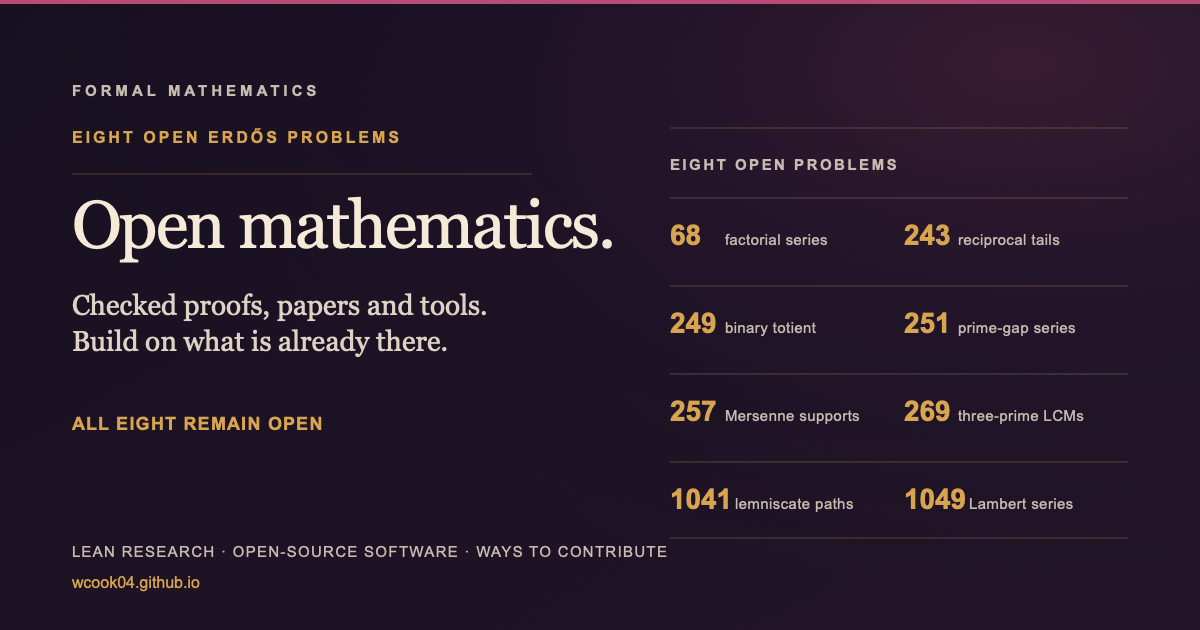
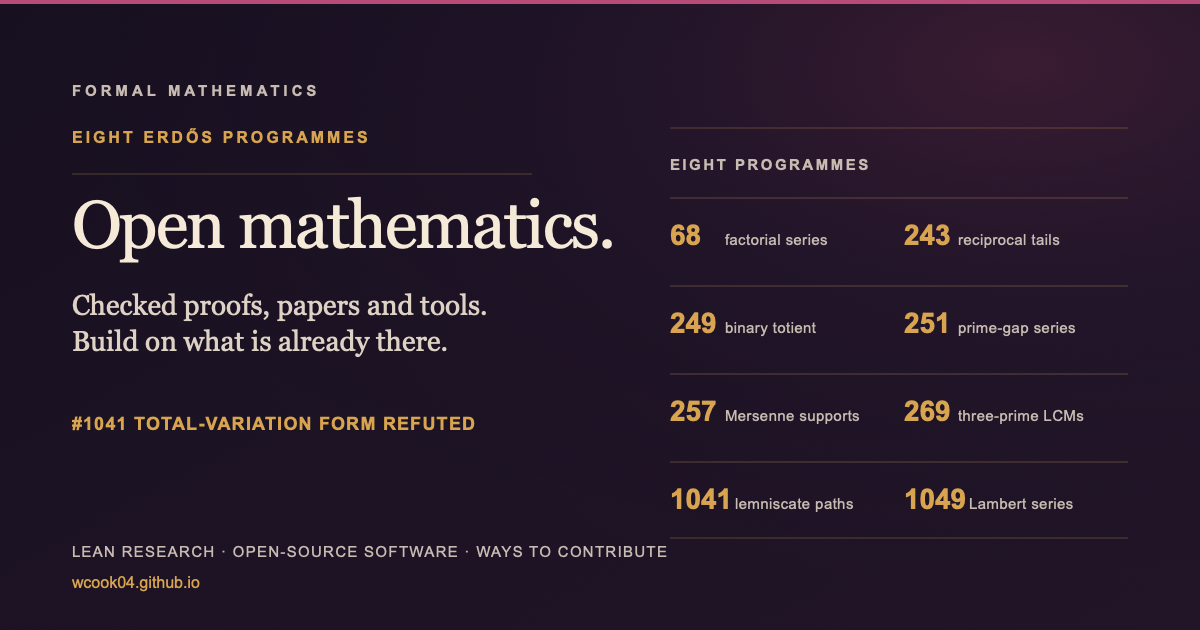
Qualify Erdős 1041 status on public front door

Changed region(s): [[0.0617, 0.6635, 0.4008, 0.6937], [0.1233, 0.2111, 0.3392, 0.2413], [0.6167, 0.2413, 0.7708, 0.2714]]

diff --git a/index.html b/index.html
@@ -10,25 +10,25 @@
        Google resolves both per host, not per directory, so without a real page
        here the whole host inherits GitHub's "Site not found" error page. -->
   <title>Will Cook | Plectis: research with AI, mathematics and software</title>
-  <meta name="description" content="I am building Plectis so that research done with AI can be understood, checked and continued: mathematics on eight open Erdős problems, research software, papers, and the record of what failed.">
+  <meta name="description" content="Plectis makes research across eight Erdős problem programmes understandable, checkable and open to continuation, with papers, software and a record of what failed.">
   <meta name="robots" content="index, follow">
   <link rel="canonical" href="https://wcook04.github.io/">
 
   <meta property="og:type" content="website">
   <meta property="og:site_name" content="Will Cook">
   <meta property="og:title" content="Will Cook: Plectis">
-  <meta property="og:description" content="Research with AI that can be understood, checked and continued: mathematics on eight open Erdős problems, research software and papers.">
+  <meta property="og:description" content="Plectis: research across eight Erdős programmes, with papers, checked statements, software and ways to continue the work.">
   <meta property="og:url" content="https://wcook04.github.io/">
   <meta property="og:image" content="https://wcook04.github.io/assets/og-frontier.png">
   <meta property="og:image:type" content="image/png">
   <meta property="og:image:width" content="1200">
   <meta property="og:image:height" content="630">
-  <meta property="og:image:alt" content="Eight open Erdős problems: factorial denominators, reciprocal tails, binary totient, prime-gap dyadics, Mersenne supports, three-prime LCMs, lemniscate paths, and rational Lambert. All eight remain open.">
+  <meta property="og:image:alt" content="Eight Erdős research programmes. The checked total-variation formulation of #1041 is refuted; correspondence with the historical curve-length question remains unreviewed.">
   <meta name="twitter:card" content="summary_large_image">
   <meta name="twitter:title" content="Will Cook: Plectis">
-  <meta name="twitter:description" content="Research with AI that can be understood, checked and continued: mathematics on eight open Erdős problems, research software and papers.">
+  <meta name="twitter:description" content="Plectis: research across eight Erdős programmes, with papers, checked statements, software and ways to continue the work.">
   <meta name="twitter:image" content="https://wcook04.github.io/assets/og-frontier.png">
-  <meta name="twitter:image:alt" content="Eight open Erdős problems: factorial denominators, reciprocal tails, binary totient, prime-gap dyadics, Mersenne supports, three-prime LCMs, lemniscate paths, and rational Lambert. All eight remain open.">
+  <meta name="twitter:image:alt" content="Eight Erdős research programmes. The checked total-variation formulation of #1041 is refuted; correspondence with the historical curve-length question remains unreviewed.">
 
   <meta name="theme-color" content="#171020">
 
@@ -2523,7 +2523,7 @@
                  checked handles and open boundaries. -->
             <span class="shot__frontier" aria-hidden="true">
               <span class="frontier-plate__eyebrow">Plectis research system</span>
-              <span class="frontier-plate__title">Eight programme map <small>all eight remain open</small></span>
+              <span class="frontier-plate__title">Eight programme map <small>results and remaining questions</small></span>
               <span class="frontier-plate__grid">
                 <span class="frontier-plate__item"><span class="frontier-plate__number">68</span><span class="frontier-plate__handle">The factorial-denominator series</span><span class="frontier-plate__boundary">Original problem remains open.</span></span>
                 <span class="frontier-plate__item"><span class="frontier-plate__number">243</span><span class="frontier-plate__handle">Reciprocal-tail rigidity near the Sylvester recurrence</span><span class="frontier-plate__boundary">Original problem remains open.</span></span>
@@ -2531,7 +2531,7 @@
                 <span class="frontier-plate__item"><span class="frontier-plate__number">251</span><span class="frontier-plate__handle">The prime-gap dyadic series</span><span class="frontier-plate__boundary">Original problem remains open.</span></span>
                 <span class="frontier-plate__item"><span class="frontier-plate__number">257</span><span class="frontier-plate__handle">Reciprocal sums over infinite exponent supports</span><span class="frontier-plate__boundary">Original problem remains open.</span></span>
                 <span class="frontier-plate__item"><span class="frontier-plate__number">269</span><span class="frontier-plate__handle">Three-prime running least common multiples</span><span class="frontier-plate__boundary">Original problem remains open.</span></span>
-                <span class="frontier-plate__item"><span class="frontier-plate__number">1041</span><span class="frontier-plate__handle">Short connections inside polynomial lemniscates</span><span class="frontier-plate__boundary">Original problem remains open.</span></span>
+                <span class="frontier-plate__item"><span class="frontier-plate__number">1041</span><span class="frontier-plate__handle">Short connections inside polynomial lemniscates</span><span class="frontier-plate__boundary">Checked total-variation form refuted; historical curve-length correspondence unreviewed.</span></span>
                 <span class="frontier-plate__item"><span class="frontier-plate__number">1049</span><span class="frontier-plate__handle">Lambert-type series at rational bases</span><span class="frontier-plate__boundary">Original problem remains open.</span></span>
               </span>
             </span>
@@ -2575,15 +2575,15 @@
           <span class="problem-sheet__section"><span class="problem-sheet__label">Short note</span>No Finite Separable Representation at Three Prime Generators</span>
           <span class="problem-sheet__section problem-sheet__section--open"><span class="problem-sheet__label">Research status</span>The original problem remains open. The problem page separates results, evidence and remaining work.</span></span>
             <span class="shot__problem" data-problem="1041" aria-hidden="true">
-          <span class="problem-sheet__topline"><span class="problem-sheet__number">Erdős #1041</span><span class="problem-sheet__status">Open</span></span>
+          <span class="problem-sheet__topline"><span class="problem-sheet__number">Erdős #1041</span><span class="problem-sheet__status">Qualified</span></span>
           <span class="problem-sheet__title">Short connections inside polynomial lemniscates</span>
           <span class="problem-sheet__question"><span class="problem-sheet__label">Question</span>For a monic polynomial whose roots lie in the open unit disc, must two roots be joinable by a curve of length less than two inside the open unit lemniscate?</span>
           <span class="problem-sheet__section"><span class="problem-sheet__label">Short note</span>Sharp Solved Families and Constant-Factor Paths in Polynomial Lemniscates</span>
-          <span class="problem-sheet__section problem-sheet__section--open"><span class="problem-sheet__label">Research status</span>The original problem remains open. The problem page separates results, evidence and remaining work.</span></span>
+          <span class="problem-sheet__section problem-sheet__section--open"><span class="problem-sheet__label">Research status</span>Checked total-variation form refuted; historical curve-length correspondence unreviewed. The problem page separates results, evidence and remaining work.</span></span>
             <span class="shot__problem" data-problem="1049" aria-hidden="true">
           <span class="problem-sheet__topline"><span class="problem-sheet__number">Erdős #1049</span><span class="problem-sheet__status">Open</span></span>
           <span class="problem-sheet__title">Lambert-type series at rational bases</span>
-          <span class="problem-sheet__question"><span class="problem-sheet__label">Question</span>For which rational bases is the corresponding series irrational? The first resistant explicit base is three halves.</span>
+          <span class="problem-sheet__question"><span class="problem-sheet__label">Question</span>For which rational bases is the corresponding series irrational? The smallest resistant explicit base is three halves.</span>
           <span class="problem-sheet__section"><span class="problem-sheet__label">Short note</span>Irrationality of F(31/4) and the Exact Normalized Hankel Order</span>
           <span class="problem-sheet__section problem-sheet__section--open"><span class="problem-sheet__label">Research status</span>The original problem remains open. The problem page separates results, evidence and remaining work.</span></span>
           </span>
@@ -2615,7 +2615,7 @@
         <h2 id="absolute-frontier-title">Public work</h2>
         <p><a class="btn" href="https://wcook04.github.io/plectis/" data-dest="plectis-site">Explore Plectis</a></p>
         <p class="absolute-frontier__thesis">The project site introduces the research, <a class="term" data-term="software" href="https://wcook04.github.io/plectis/docs/glossary.html#glossary-software">software</a> and recorded <a class="term" data-term="interface" href="https://wcook04.github.io/plectis/docs/glossary.html#glossary-interface">interface</a>.</p>
-        <p class="af-route"><a href="https://wcook04.github.io/plectis/maths/" data-dest="math-frontier"><span data-term-preview-only data-term="mathematics">Mathematics</span></a> <span>· work on eight <a class="term" data-term="erdos_problem" href="https://wcook04.github.io/plectis/docs/glossary.html#glossary-erdos-problem">Erdős problems</a>, all still open</span></p>
+        <p class="af-route"><a href="https://wcook04.github.io/plectis/maths/" data-dest="math-frontier"><span data-term-preview-only data-term="mathematics">Mathematics</span></a> <span>· eight programmes; #1041's <a class="term is-again" data-term="check" href="https://wcook04.github.io/plectis/docs/glossary.html#glossary-check">checked</a> total-variation form is refuted</span></p>
         <p class="frontier-instruction"><span class="frontier-instruction__wide">Hover or focus a problem to preview it; activate the link to open its page.</span><span class="frontier-instruction__narrow">Open a problem page:</span></p>
         <div class="frontier" aria-label="Eight Erdős problem pages">
           <p data-dest="problem-68"><a href="https://wcook04.github.io/plectis/maths/problems/erdos_68.html" data-dest="problem-68"><span data-term-preview-only data-term="erdos">Erdős</span> #68</a> <span class="frontier-topic">The <a class="term" data-term="factorial" href="https://wcook04.github.io/plectis/docs/glossary.html#glossary-factorial">factorial</a>-<a class="term" data-term="denominator" href="https://wcook04.github.io/plectis/docs/glossary.html#glossary-denominator">denominator</a> <a class="term" data-term="series" href="https://wcook04.github.io/plectis/docs/glossary.html#glossary-series">series</a></span> · original problem <a class="term" data-term="open_problem" href="https://wcook04.github.io/plectis/docs/glossary.html#glossary-open-problem">remains open</a></p>
@@ -2624,7 +2624,7 @@
           <p data-dest="problem-251"><a href="https://wcook04.github.io/plectis/maths/problems/erdos_251.html" data-dest="problem-251"><span data-term-preview-only data-term="erdos">Erdős</span> #251</a> <span class="frontier-topic">The <a class="term" data-term="prime" href="https://wcook04.github.io/plectis/docs/glossary.html#glossary-prime">prime</a>-gap <a class="term" data-term="dyadic" href="https://wcook04.github.io/plectis/docs/glossary.html#glossary-dyadic">dyadic</a> <a class="term is-again" data-term="series" href="https://wcook04.github.io/plectis/docs/glossary.html#glossary-series">series</a></span> · original problem <a class="term is-again" data-term="open_problem" href="https://wcook04.github.io/plectis/docs/glossary.html#glossary-open-problem">remains open</a></p>
           <p data-dest="problem-257"><a href="https://wcook04.github.io/plectis/maths/problems/erdos_257.html" data-dest="problem-257"><span data-term-preview-only data-term="erdos">Erdős</span> #257</a> <span class="frontier-topic"><a class="term" data-term="reciprocal_series" href="https://wcook04.github.io/plectis/docs/glossary.html#glossary-reciprocal-series">Reciprocal sums</a> over <a class="term" data-term="infinite" href="https://wcook04.github.io/plectis/docs/glossary.html#glossary-infinite">infinite</a> <a class="term" data-term="support" href="https://wcook04.github.io/plectis/docs/glossary.html#glossary-support">exponent supports</a></span> · original problem <a class="term is-again" data-term="open_problem" href="https://wcook04.github.io/plectis/docs/glossary.html#glossary-open-problem">remains open</a></p>
           <p data-dest="problem-269"><a href="https://wcook04.github.io/plectis/maths/problems/erdos_269.html" data-dest="problem-269"><span data-term-preview-only data-term="erdos">Erdős</span> #269</a> <span class="frontier-topic">Three-<a class="term is-again" data-term="prime" href="https://wcook04.github.io/plectis/docs/glossary.html#glossary-prime">prime</a> <a class="term" data-term="running_lcm" href="https://wcook04.github.io/plectis/docs/glossary.html#glossary-running-lcm">running least common multiples</a></span> · original problem <a class="term is-again" data-term="open_problem" href="https://wcook04.github.io/plectis/docs/glossary.html#glossary-open-problem">remains open</a></p>
-          <p data-dest="problem-1041"><a href="https://wcook04.github.io/plectis/maths/problems/erdos_1041.html" data-dest="problem-1041"><span data-term-preview-only data-term="erdos">Erdős</span> #1041</a> <span class="frontier-topic">Short connections inside <a class="term" data-term="lemniscate" href="https://wcook04.github.io/plectis/docs/glossary.html#glossary-lemniscate">polynomial lemniscates</a></span> · original problem <a class="term is-again" data-term="open_problem" href="https://wcook04.github.io/plectis/docs/glossary.html#glossary-open-problem">remains open</a></p>
+          <p data-dest="problem-1041"><a href="https://wcook04.github.io/plectis/maths/problems/erdos_1041.html" data-dest="problem-1041"><span data-term-preview-only data-term="erdos">Erdős</span> #1041</a> <span class="frontier-topic">Short connections inside <a class="term" data-term="lemniscate" href="https://wcook04.github.io/plectis/docs/glossary.html#glossary-lemniscate">polynomial lemniscates</a></span> · <a class="term is-again" data-term="check" href="https://wcook04.github.io/plectis/docs/glossary.html#glossary-check">checked</a> total-variation form refuted; historical curve-length correspondence unreviewed</p>
           <p data-dest="problem-1049"><a href="https://wcook04.github.io/plectis/maths/problems/erdos_1049.html" data-dest="problem-1049"><span data-term-preview-only data-term="erdos">Erdős</span> #1049</a> <span class="frontier-topic"><a class="term" data-term="lambert_series" href="https://wcook04.github.io/plectis/docs/glossary.html#glossary-lambert-series">Lambert-type series</a> at <a class="term" data-term="base" href="https://wcook04.github.io/plectis/docs/glossary.html#glossary-base">rational bases</a></span> · original problem <a class="term is-again" data-term="open_problem" href="https://wcook04.github.io/plectis/docs/glossary.html#glossary-open-problem">remains open</a></p>
         </div>
         <p class="af-route"><a href="https://github.com/wcook04/plectis" data-to="repo"><span data-term-preview-only data-term="software">Software</span> <span data-term-preview-only data-term="repository">repository</span></a> <span>· public research and engineering tools</span></p>
@@ -3245,13 +3245,6 @@
         "reader_deep": "Read the linked problem statement and references for the intended formulation. A paper may establish a related theorem, special case, or obstruction while the numbered question remains open.",
         "reader_preview": "Paul Erdős was a mathematician known for work in number theory, combinatorics, probability, and related fields.",
         "reader_rule": "A database number identifies the question; it does not describe its current solution status."
-      },
-      "erdos_problem": {
-        "preferred_label": "Erdős problem",
-        "reader_card": "For example, “Erdős #249” identifies a particular database entry rather than the 249th theorem in this repository. The entry supplies the question and references needed to understand its origin and context.",
-        "reader_deep": "An equivalent reformulation, a finite computation, and an unconditional proof are different forms of progress and should retain their own descriptions.",
-        "reader_preview": "An Erdős problem is a mathematical question associated with Paul Erdős; this site uses the numbering of the Erdős Problems database.",
-        "reader_rule": "Compare a paper's exact statement with the original question before interpreting a result as a solution."
       },
       "factorial": {
         "preferred_label": "factorial",

diff --git a/scripts/build_absolute_frontier.py b/scripts/build_absolute_frontier.py
@@ -79,12 +79,20 @@ def snapshot(site: Path) -> dict:
             'items':items}
 
 
+def problem_boundary(row: dict) -> str:
+    # The compact source snapshot predates the qualified #1041 claim. Keep the
+    # historic question open while naming the checked total-variation boundary.
+    if row['problem'] == 1041:
+        return 'checked total-variation form refuted; historical curve-length correspondence unreviewed'
+    return 'original problem remains open'
+
+
 def render(payload: dict) -> str:
     """Keep the personal homepage an introduction and destination index."""
     if [row['problem'] for row in payload['items']] != NUMBERS:
         raise ValueError('the source must retain all eight problems')
     problem_routes = '\n'.join(
-        f'''          <p data-dest="problem-{row['problem']}"><a href="{e(row['page_href'], quote=True)}" data-dest="problem-{row['problem']}">Erdős #{row['problem']}</a> <span class="frontier-topic">{e(row['title'])}</span> · original problem remains open</p>'''
+        f'''          <p data-dest="problem-{row['problem']}"><a href="{e(row['page_href'], quote=True)}" data-dest="problem-{row['problem']}">Erdős #{row['problem']}</a> <span class="frontier-topic">{e(row['title'])}</span> · {e(problem_boundary(row))}</p>'''
         for row in payload['items']
     )
     return f'''{BEGIN}
@@ -92,7 +100,7 @@ def render(payload: dict) -> str:
         <h2 id="absolute-frontier-title">Public work</h2>
         <p><a class="btn" href="{BASE}" data-dest="plectis-site">Explore Plectis</a></p>
         <p class="absolute-frontier__thesis">The project site introduces the research, software and recorded interface.</p>
-        <p class="af-route"><a href="{BASE}maths/" data-dest="math-frontier">Mathematics</a> <span>· work on eight Erdős problems, all still open</span></p>
+        <p class="af-route"><a href="{BASE}maths/" data-dest="math-frontier">Mathematics</a> <span>· eight programmes; #1041's checked total-variation form is refuted</span></p>
         <p class="frontier-instruction"><span class="frontier-instruction__wide">Hover or focus a problem to preview it; activate the link to open its page.</span><span class="frontier-instruction__narrow">Open a problem page:</span></p>
         <div class="frontier" aria-label="Eight Erdős problem pages">
 {problem_routes}
@@ -116,18 +124,29 @@ def project(text: str, payload: dict) -> str:
     a=text.index(BEGIN); b=text.index(END,a)+len(END)
     text=text[:a]+render(payload)+text[b:]
     # Portraits and overview are projections of the same eight rows as the list.
+    boundary_count=len(re.findall(r'<span class="frontier-plate__boundary">', text))
+    if boundary_count != len(NUMBERS):
+        raise ValueError(f'expected {len(NUMBERS)} frontier plate boundaries, found {boundary_count}')
     for p in payload['items']:
         n=p['problem']
         pattern=rf'<span class="shot__problem" data-problem="{n}".*?(?=\s*<span class="shot__problem"|\s*</span>\s*</a>\s*<p class="dest__hint")'
+        boundary=problem_boundary(p)
+        portrait_boundary=boundary.capitalize() if n == 1041 else 'The original problem remains open'
+        portrait_status='Qualified' if n == 1041 else p['status'].capitalize()
         sheet=f'''<span class="shot__problem" data-problem="{n}" aria-hidden="true">
-          <span class="problem-sheet__topline"><span class="problem-sheet__number">Erdős #{n}</span><span class="problem-sheet__status">{e(p['status'].capitalize())}</span></span>
+          <span class="problem-sheet__topline"><span class="problem-sheet__number">Erdős #{n}</span><span class="problem-sheet__status">{e(portrait_status)}</span></span>
           <span class="problem-sheet__title">{e(p['title'])}</span>
           <span class="problem-sheet__question"><span class="problem-sheet__label">Question</span>{e(p['question'])}</span>
           <span class="problem-sheet__section"><span class="problem-sheet__label">Short note</span>{e(p['paper_title'])}</span>
-          <span class="problem-sheet__section problem-sheet__section--open"><span class="problem-sheet__label">Research status</span>The original problem remains open. The problem page separates results, evidence and remaining work.</span></span>'''
+          <span class="problem-sheet__section problem-sheet__section--open"><span class="problem-sheet__label">Research status</span>{e(portrait_boundary)}. The problem page separates results, evidence and remaining work.</span></span>'''
         text=replace_required(text,pattern,lambda _:sheet,f'portrait #{n}',flags=re.S)
         text=replace_required(text,rf'(<span class="frontier-plate__number">{n}</span><span class="frontier-plate__handle">).*?(</span>)',lambda m:m[1]+e(p['title'])+m[2],f'frontier plate #{n}',flags=re.S)
-    text=replace_required(text,r'(<span class="frontier-plate__boundary">).*?(</span>)',r'\1Original problem remains open.\2','frontier plate boundaries',expected=len(NUMBERS),flags=re.S)
+        text=replace_required(
+            text,
+            rf'(<span class="frontier-plate__number">{n}</span><span class="frontier-plate__handle">[^<]*</span><span class="frontier-plate__boundary">).*?(</span>)',
+            lambda m: m[1]+e(boundary.capitalize())+'.'+m[2],
+            f'frontier plate #{n} boundary', flags=re.S,
+        )
     # The interactive portrait opens the same current page as its row.
     text=re.sub(r'    /\* This is presentation text for the destination bar.*?    var DEST =', '    var DEST =', text, count=1, flags=re.S)
     for p in payload['items']:

diff --git a/scripts/test_absolute_frontier_structure.py b/scripts/test_absolute_frontier_structure.py
@@ -45,6 +45,13 @@ class AbsoluteFrontierStructureTests(unittest.TestCase):
         expected_hrefs = {str(row['problem']): row['page_href'] for row in self.payload['items']}
         self.assertTrue(all(href == expected_hrefs[dest] for href, dest, _ in links))
 
+    def test_1041_boundary_is_qualified_across_generated_surfaces(self):
+        projected = project(self.markup, self.payload)
+        self.assertIn('1041\'s checked total-variation form is refuted', projected)
+        self.assertIn('Checked total-variation form refuted; historical curve-length correspondence unreviewed.', projected)
+        self.assertIn('<span class="problem-sheet__number">Erdős #1041</span><span class="problem-sheet__status">Qualified</span>', projected)
+        self.assertEqual(projected.count('Original problem remains open.'), len(NUMBERS) - 1)
+
     def test_projection_comparison_ignores_both_term_link_forms(self):
         decorated = (
             '<a class="term" data-term="proof" href="glossary.html#glossary-proof">proof</a> '

diff --git a/README.md b/README.md
@@ -189,8 +189,9 @@ that could check it.
 
 Those labels preserve the cross-site return route: `Will Cook` is this page's
 `<h1>`, and *public work* describes the front door in the Plectis colophon. They
-must not be used as a paraphrase of the programme line, which is now **Eight
-open Erdős problems**. If you change either return label, change the Plectis
+must not be used as a paraphrase of the programme line, which names **eight
+Erdős research programmes** and qualifies the checked #1041 total-variation
+counterexample. If you change either return label, change the Plectis
 header, its colophon, and `PARENT_SITE_LABEL` in that site's builder in the same
 pass.
 
